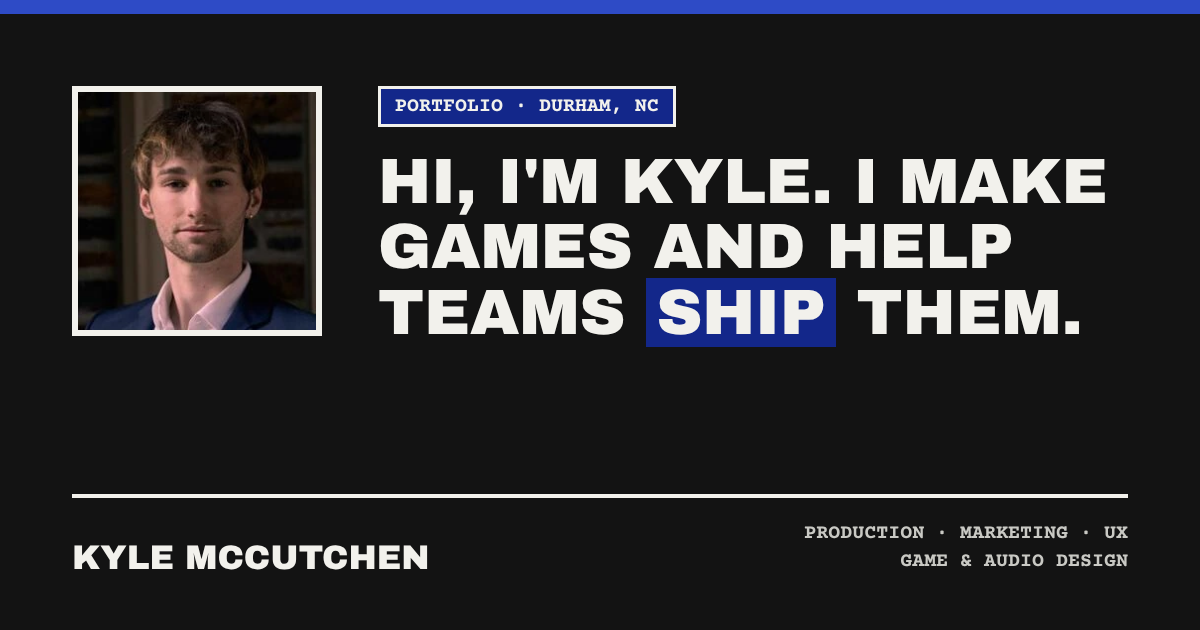
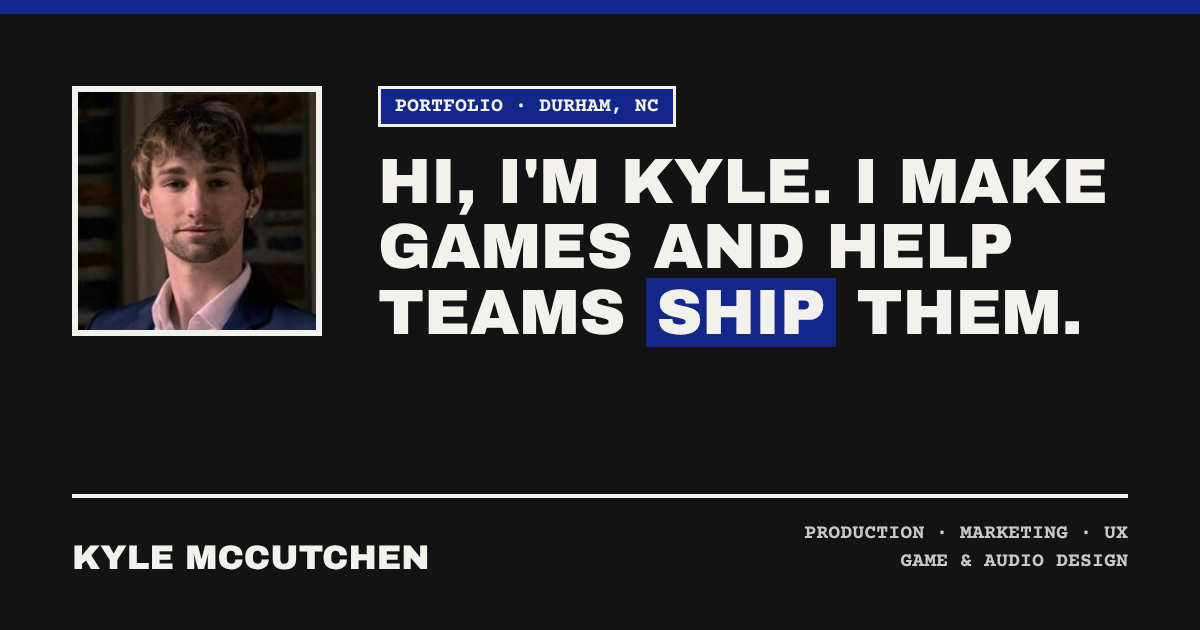
Broaden home page beyond games, add Audio nav tab, list Jira/Perforce in section details
Claude-Session: https://claude.ai/code/session_01KrK3kDgW3ZqdmRvWk1oTHi

Changed region(s): [[0.0, 0.0, 1.0, 0.0302]]

diff --git a/index.html b/index.html
@@ -3,15 +3,15 @@
 <head>
 <meta charset="utf-8">
 <meta name="viewport" content="width=device-width, initial-scale=1">
-<title>Kyle McCutchen — Production, Marketing, UX, Game &amp; Audio Design</title>
-<meta name="description" content="Kyle McCutchen's portfolio: production and project management, product design at Athletic Training Portal, game development, and audio design. Durham, NC.">
+<title>Kyle McCutchen — Project Management, Product Design &amp; Games</title>
+<meta name="description" content="Kyle McCutchen's portfolio: project management, product design at Athletic Training Portal, marketing, and game and audio design. Durham, NC.">
 <link rel="icon" href="assets/img/favicon.svg" type="image/svg+xml">
 <link rel="apple-touch-icon" href="assets/img/apple-touch-icon.png">
 <meta name="theme-color" content="#131313">
 <meta property="og:type" content="website">
 <meta property="og:site_name" content="Kyle McCutchen">
 <meta property="og:title" content="Kyle McCutchen — Production, Marketing, UX, Game &amp; Audio Design">
-<meta property="og:description" content="Kyle McCutchen's portfolio: production and project management, product design at Athletic Training Portal, game development, and audio design. Durham, NC.">
+<meta property="og:description" content="Kyle McCutchen's portfolio: project management, product design at Athletic Training Portal, marketing, and game and audio design. Durham, NC.">
 <meta property="og:url" content="https://kwm26.github.io/Portfolio-Website/">
 <meta property="og:image" content="https://kwm26.github.io/Portfolio-Website/assets/img/og-image.png">
 <meta property="og:image:width" content="1200">
@@ -26,15 +26,15 @@
 
 <header><div class="wrap nav-row">
   <a class="brand" href="index.html">Kyle McCutchen</a>
-  <nav><a href="game-dev/index.html">Game Dev</a><a href="production.html">Production &amp; Project Management</a><a href="front-end.html">Product Design</a><a href="#contact">Contact</a></nav>
+  <nav><a href="production.html">Production &amp; Project Management</a><a href="front-end.html">Product Design</a><a href="game-dev/index.html">Game Dev</a><a href="game-dev/audio.html">Audio</a><a href="#contact">Contact</a></nav>
 </div></header>
 
 <section class="hero"><div class="wrap hero-grid">
   <div class="headshot has-img"><img src="assets/img/headshot.webp" alt="Kyle McCutchen" width="240" height="240"></div>
   <div>
     <div class="tagbox">Durham, NC</div>
-    <h1>Hi, I'm Kyle. I make games and help teams <span class="flip">ship</span> them.</h1>
-    <p class="bio">I'm a Master's student in Game Design, Development &amp; Innovation at Duke. Right now most of my time goes to two things: running production and audio on <strong>Project Gravity</strong>, an 18-person student game, and working as Chief Experience Officer at <strong>Athletic Training Portal</strong>, a sports-tech startup. Here's some of what I've been working on.</p>
+    <h1>Hi, I'm Kyle. I <span class="flip">manage</span> projects, design products, and make games.</h1>
+    <p class="bio">I'm Chief Experience Officer at <strong>Athletic Training Portal</strong>, a sports-tech startup, where I work on product design, marketing, and the tools our team uses every day. I'm also the lead project manager on <strong>Project Gravity</strong>, an 18-person team project, and a Master's student at Duke. Here's some of what I've been working on.</p>
     <div class="actions"><a class="primary" href="mailto:kwm26@duke.edu">Email me</a><a href="#work">See my work</a></div>
   </div>
 </div></section>
@@ -42,10 +42,10 @@
 <section class="work" id="work"><div class="wrap">
   <div class="work-head"><span>Selected work</span><h2>What I work on</h2></div>
   <div class="grid5">
-    <a class="item" href="production.html"><div class="n">01</div><div><h3>Production, PM &amp; Marketing</h3><p>Running sprints for an 18-person student game, building tools for my team with AI, and marketing for ATP.</p></div></a>
-    <a class="item is-active" href="game-dev/index.html"><div class="n">02</div><div><h3>Game Development</h3><p>Unity projects with small teams, plus an original game I pitched.</p></div></a>
-    <a class="item" href="game-dev/audio.html"><div class="n">03</div><div><h3>Audio Design</h3><p>Sound effects for Project Gravity and a reactive audio demo in Unreal.</p></div></a>
-    <a class="item" href="front-end.html"><div class="n">04</div><div><h3>Product Design (ATP)</h3><p>The landing page, athlete mobile view, and video overlays I built for ATP.</p></div></a>
+    <a class="item is-active" href="production.html"><div class="n">01</div><div><h3>Production &amp; Project Management</h3><p>Running sprints for an 18-person team, building tools with AI that save us money, and leading marketing at ATP.</p></div></a>
+    <a class="item" href="front-end.html"><div class="n">02</div><div><h3>Product Design (ATP)</h3><p>The landing page, athlete mobile view, and video overlays I designed and built for a sports-tech startup.</p></div></a>
+    <a class="item" href="game-dev/index.html"><div class="n">03</div><div><h3>Game Development</h3><p>Unity projects with small teams, plus an original game I pitched.</p></div></a>
+    <a class="item" href="game-dev/audio.html"><div class="n">04</div><div><h3>Audio Design</h3><p>Sound effects for Project Gravity and a reactive audio demo in Unreal.</p></div></a>
   </div>
 </div></section>
 
@@ -63,7 +63,7 @@
 <footer id="contact"><div class="wrap">
   <h2>Get in touch</h2>
   <div class="flinks"><a href="mailto:kwm26@duke.edu">kwm26@duke.edu</a><a href="tel:3109277720">310-927-7720</a><a href="https://www.linkedin.com/in/kyle-mccutchen/" target="_blank" rel="noopener">LinkedIn</a></div>
-  <div class="footer-row"><span>Kyle McCutchen — Durham, NC</span><span>Production · Marketing · UX · Game &amp; Audio Design</span></div>
+  <div class="footer-row"><span>Kyle McCutchen — Durham, NC</span><span>Project Management · Product Design · Marketing · Games</span></div>
 </div></footer>
 
 <script src="js/site.js?v=3"></script>

diff --git a/production.html b/production.html
@@ -26,20 +26,20 @@
 
 <header><div class="wrap nav-row">
   <a class="brand" href="index.html">Kyle McCutchen</a>
-  <nav><a href="game-dev/index.html">Game Dev</a><a class="active" href="production.html">Production &amp; Project Management</a><a href="front-end.html">Product Design</a><a href="#contact">Contact</a></nav>
+  <nav><a class="active" href="production.html">Production &amp; Project Management</a><a href="front-end.html">Product Design</a><a href="game-dev/index.html">Game Dev</a><a href="game-dev/audio.html">Audio</a><a href="#contact">Contact</a></nav>
 </div></header>
 
 <section class="hero"><div class="wrap" style="padding-block:56px;">
   <div class="tagbox">Production · Project management · Marketing</div>
   <h1>Keeping teams <span class="flip">organized</span> and moving.</h1>
-  <p class="bio">I run sprints for an 18-person student game team and help lead marketing at a sports-tech startup. When we need a tool we can't afford, I usually try to build it myself with AI.</p>
+  <p class="bio">I lead marketing and build our internal tools at Athletic Training Portal, a sports-tech startup, and I run sprints for an 18-person team at Cosmic Labs. When we need a tool we can't afford, I usually try to build it myself with AI.</p>
 </div></section>
 
 <article class="cs-body"><div class="wrap">
 
   <section class="cs-section">
     <div>
-      <h2><span class="n">01</span>Project Gravity at Cosmic Labs</h2>
+      <h2><span class="n">01</span>Leading an 18-person team</h2>
       <ul class="meta-list"><li>Lead Project Manager</li><li>Cosmic Labs</li><li>Aug 2025 – Present</li><li>Jira · Notion · Perforce</li></ul>
     </div>
     <div class="proj-stack">
@@ -56,7 +56,7 @@
   <section class="cs-section">
     <div>
       <h2><span class="n">02</span>The ATP Board</h2>
-      <ul class="meta-list"><li>Athletic Training Portal</li><li>Built with Claude</li><li>Shared with the whole team</li></ul>
+      <ul class="meta-list"><li>Athletic Training Portal</li><li>Built with Claude</li><li>Jira-style sprints · GitHub</li><li>Shared with the whole team</li></ul>
     </div>
     <div class="proj-stack">
       <p>At ATP we wanted to run real agile sprints with story points, priorities, and owners, but we didn't have the budget for paid project-management software. So I built our own with Claude. It's now the board our whole team works out of.</p>
@@ -119,7 +119,7 @@
 <footer id="contact"><div class="wrap">
   <h2>Get in touch</h2>
   <div class="flinks"><a href="mailto:kwm26@duke.edu">kwm26@duke.edu</a><a href="tel:3109277720">310-927-7720</a><a href="https://www.linkedin.com/in/kyle-mccutchen/" target="_blank" rel="noopener">LinkedIn</a></div>
-  <div class="footer-row"><span>Kyle McCutchen — Durham, NC</span><span>Production · Marketing · UX · Game &amp; Audio Design</span></div>
+  <div class="footer-row"><span>Kyle McCutchen — Durham, NC</span><span>Project Management · Product Design · Marketing · Games</span></div>
 </div></footer>
 
 </body>

diff --git a/game-dev/audio.html b/game-dev/audio.html
@@ -26,7 +26,7 @@
 
 <header><div class="wrap nav-row">
   <a class="brand" href="../index.html">Kyle McCutchen</a>
-  <nav><a class="active" href="index.html">Game Dev</a><a href="../production.html">Production &amp; Project Management</a><a href="../front-end.html">Product Design</a><a href="#contact">Contact</a></nav>
+  <nav><a href="../production.html">Production &amp; Project Management</a><a href="../front-end.html">Product Design</a><a href="index.html">Game Dev</a><a class="active" href="audio.html">Audio</a><a href="#contact">Contact</a></nav>
 </div></header>
 
 <section class="hero"><div class="wrap" style="padding-block:56px;">
@@ -40,7 +40,7 @@
   <section class="cs-section">
     <div>
       <h2><span class="n">01</span>Gravity SFX library</h2>
-      <ul class="meta-list"><li>Lead Audio Designer</li><li>Team of 18</li><li>Ableton · Output plugins</li></ul>
+      <ul class="meta-list"><li>Lead Audio Designer</li><li>Team of 18</li><li>Ableton · Output plugins</li><li>Jira · Perforce</li></ul>
     </div>
     <div class="proj-stack">
       <p>These are upcoming sound effects for Gravity. Many are still in ideation, and they've helped our team define its mood board and the kinds of sounds and light motifs we want in the game. The gravity "gun" sound is central to the game, so I'm still workshopping it to get it exactly right. Everything was made in Ableton, mostly with built-in synths plus a few Output plugins.</p>
@@ -63,8 +63,8 @@
   </section>
 
   <div class="cs-next">
-    <a href="index.html">← Game Development</a>
-    <a href="../front-end.html">Next: Product Design →</a>
+    <a href="../index.html#work">← All work</a>
+    <a href="../production.html">Next: Production &amp; Project Management →</a>
   </div>
 
 </div></article>
@@ -72,7 +72,7 @@
 <footer id="contact"><div class="wrap">
   <h2>Get in touch</h2>
   <div class="flinks"><a href="mailto:kwm26@duke.edu">kwm26@duke.edu</a><a href="tel:3109277720">310-927-7720</a><a href="https://www.linkedin.com/in/kyle-mccutchen/" target="_blank" rel="noopener">LinkedIn</a></div>
-  <div class="footer-row"><span>Kyle McCutchen — Durham, NC</span><span>Production · Marketing · UX · Game &amp; Audio Design</span></div>
+  <div class="footer-row"><span>Kyle McCutchen — Durham, NC</span><span>Project Management · Product Design · Marketing · Games</span></div>
 </div></footer>
 
 </body>

diff --git a/game-dev/index.html b/game-dev/index.html
@@ -26,7 +26,7 @@
 
 <header><div class="wrap nav-row">
   <a class="brand" href="../index.html">Kyle McCutchen</a>
-  <nav><a class="active" href="index.html">Game Dev</a><a href="../production.html">Production &amp; Project Management</a><a href="../front-end.html">Product Design</a><a href="#contact">Contact</a></nav>
+  <nav><a href="../production.html">Production &amp; Project Management</a><a href="../front-end.html">Product Design</a><a class="active" href="index.html">Game Dev</a><a href="audio.html">Audio</a><a href="#contact">Contact</a></nav>
 </div></header>
 
 <section class="hero"><div class="wrap" style="padding-block:56px;">
@@ -89,7 +89,7 @@
 <footer id="contact"><div class="wrap">
   <h2>Get in touch</h2>
   <div class="flinks"><a href="mailto:kwm26@duke.edu">kwm26@duke.edu</a><a href="tel:3109277720">310-927-7720</a><a href="https://www.linkedin.com/in/kyle-mccutchen/" target="_blank" rel="noopener">LinkedIn</a></div>
-  <div class="footer-row"><span>Kyle McCutchen — Durham, NC</span><span>Production · Marketing · UX · Game &amp; Audio Design</span></div>
+  <div class="footer-row"><span>Kyle McCutchen — Durham, NC</span><span>Project Management · Product Design · Marketing · Games</span></div>
 </div></footer>
 
 </body>

diff --git a/front-end.html b/front-end.html
@@ -26,7 +26,7 @@
 
 <header><div class="wrap nav-row">
   <a class="brand" href="index.html">Kyle McCutchen</a>
-  <nav><a href="game-dev/index.html">Game Dev</a><a href="production.html">Production &amp; Project Management</a><a class="active" href="front-end.html">Product Design</a><a href="#contact">Contact</a></nav>
+  <nav><a href="production.html">Production &amp; Project Management</a><a class="active" href="front-end.html">Product Design</a><a href="game-dev/index.html">Game Dev</a><a href="game-dev/audio.html">Audio</a><a href="#contact">Contact</a></nav>
 </div></header>
 
 <!-- ============ HERO ============ -->
@@ -147,7 +147,7 @@
 <footer id="contact"><div class="wrap">
   <h2>Get in touch</h2>
   <div class="flinks"><a href="mailto:kwm26@duke.edu">kwm26@duke.edu</a><a href="tel:3109277720">310-927-7720</a><a href="https://www.linkedin.com/in/kyle-mccutchen/" target="_blank" rel="noopener">LinkedIn</a></div>
-  <div class="footer-row"><span>Kyle McCutchen — Durham, NC</span><span>Production · Marketing · UX · Game &amp; Audio Design</span></div>
+  <div class="footer-row"><span>Kyle McCutchen — Durham, NC</span><span>Project Management · Product Design · Marketing · Games</span></div>
 </div></footer>
 
 </body>
